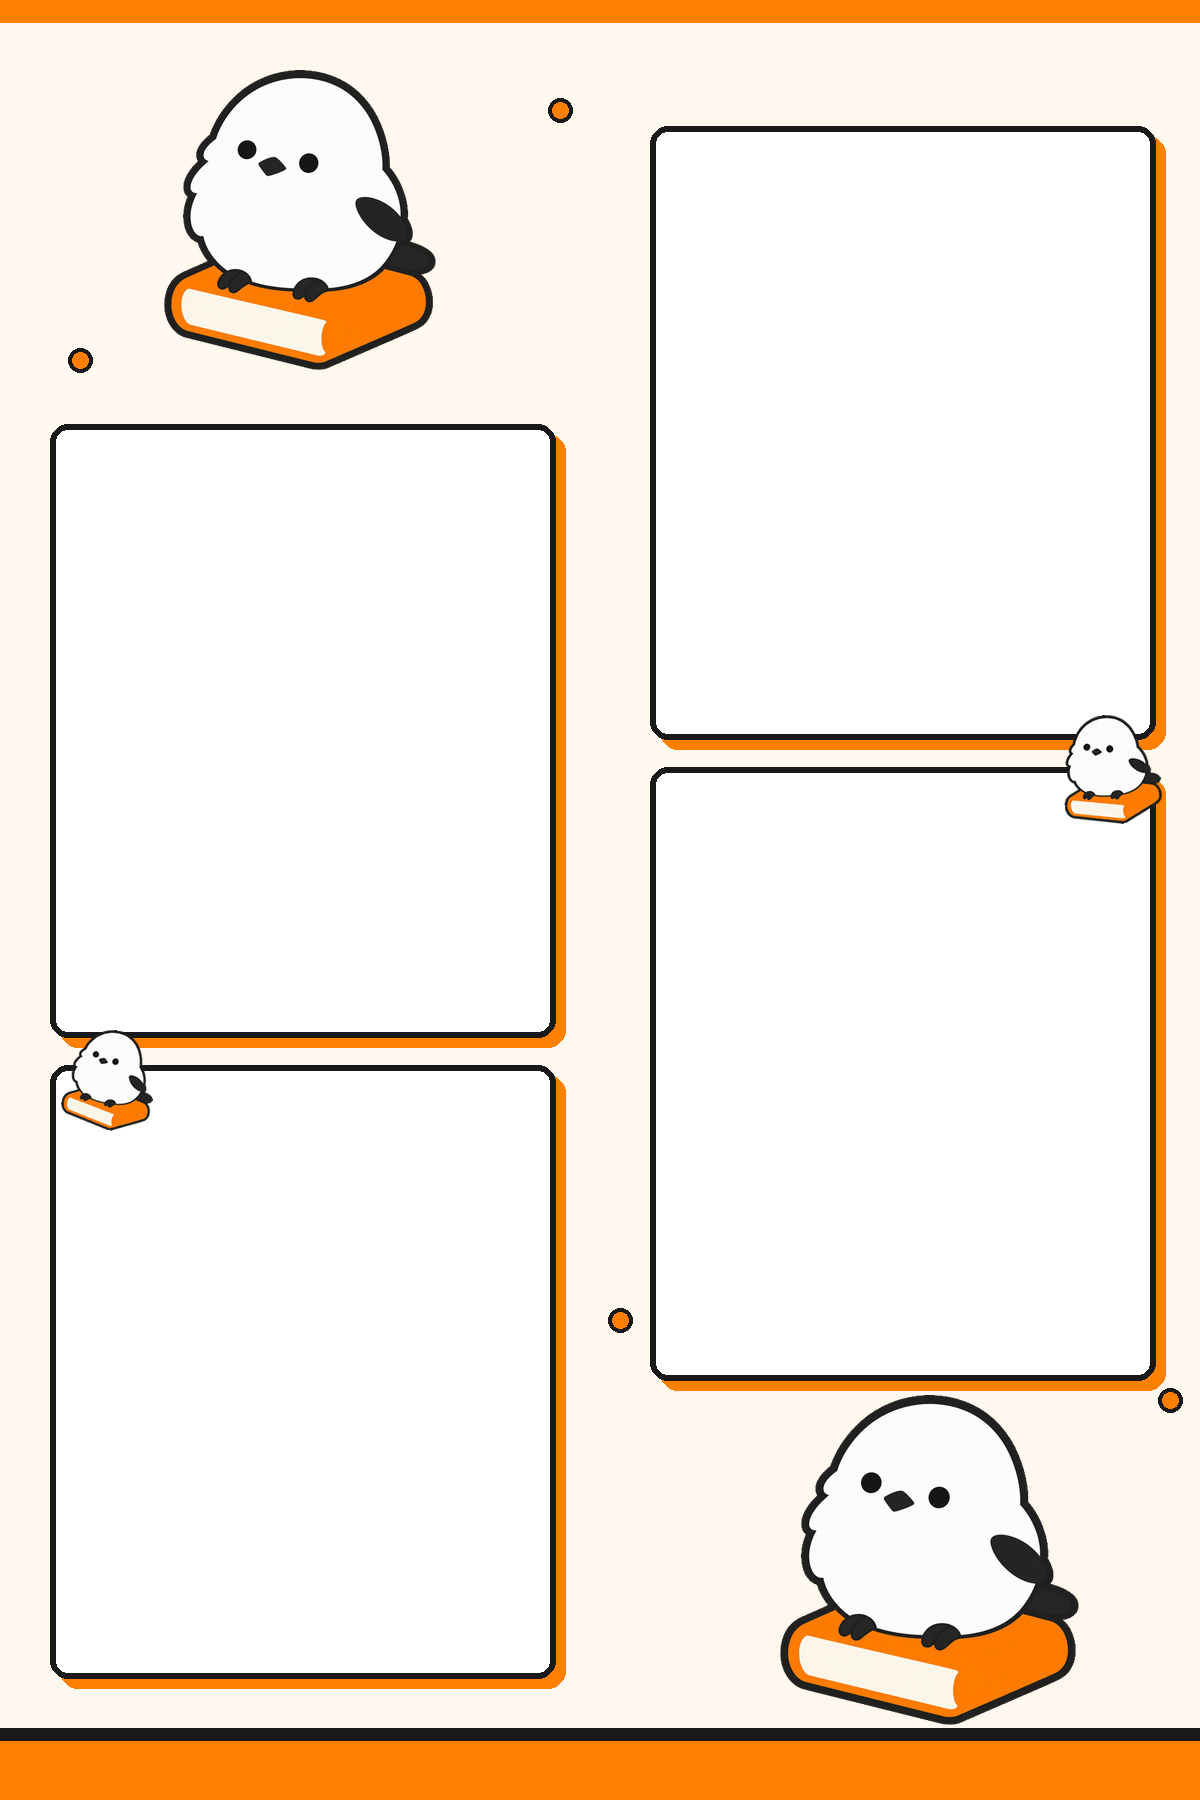
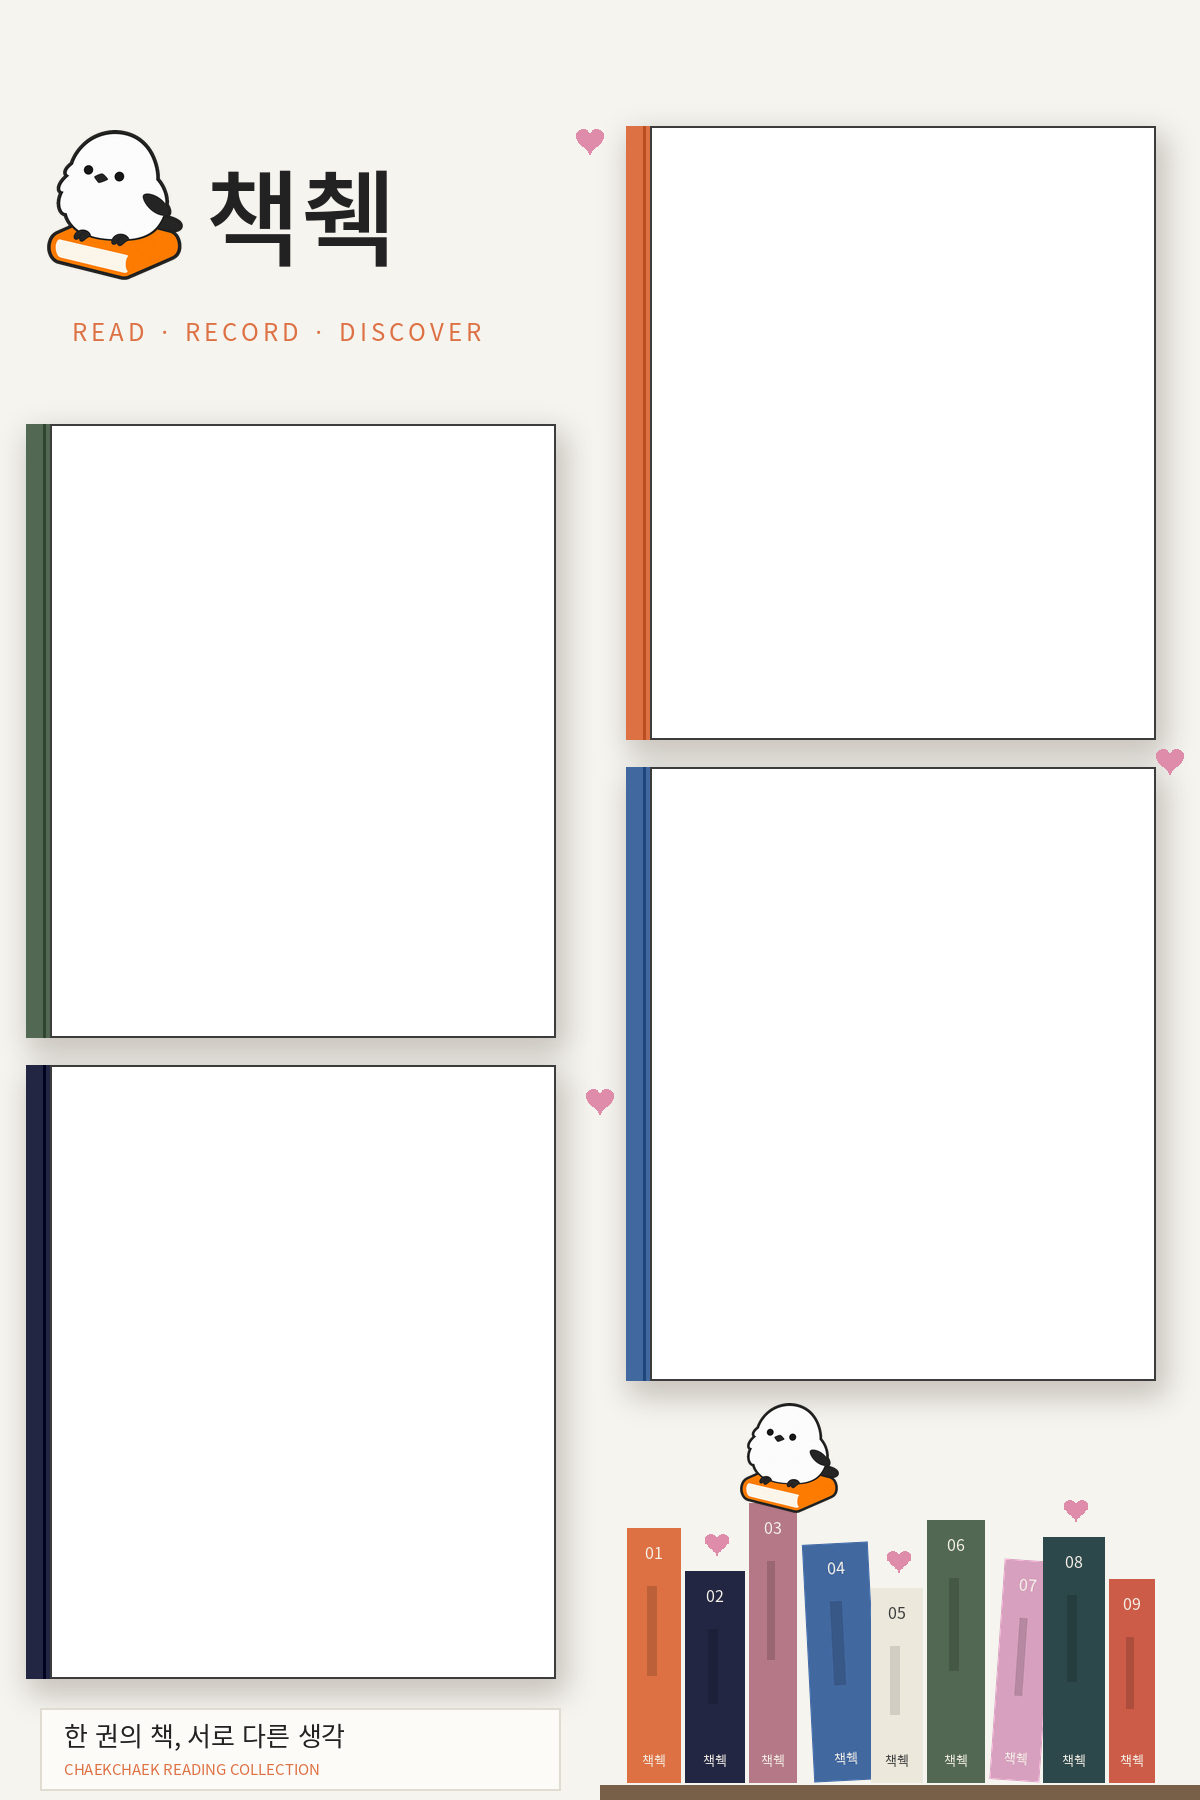
fix: 09 책췍 프레임 이미지 교체 및 배경색 조정

Changed region(s): [[0.0, 0.0, 1.0, 1.0], [0.0617, 0.0622, 0.0925, 0.0933]]

diff --git a/src/compose.ts b/src/compose.ts
@@ -202,7 +202,7 @@ export const frames: Frame[] = [
     category: "teams",
     name: "책췍",
     template: chaekchekFrame,
-    color: "#ff8000",
+    color: "#f2efe6",
     ink: "#1a1a1a",
   },
   {
